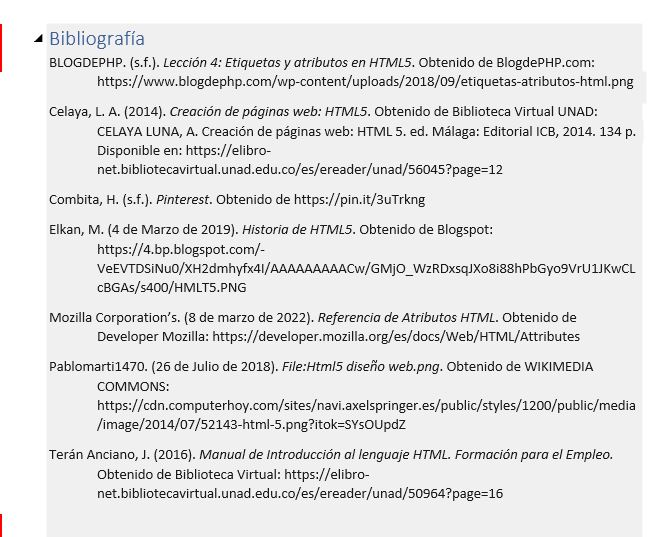
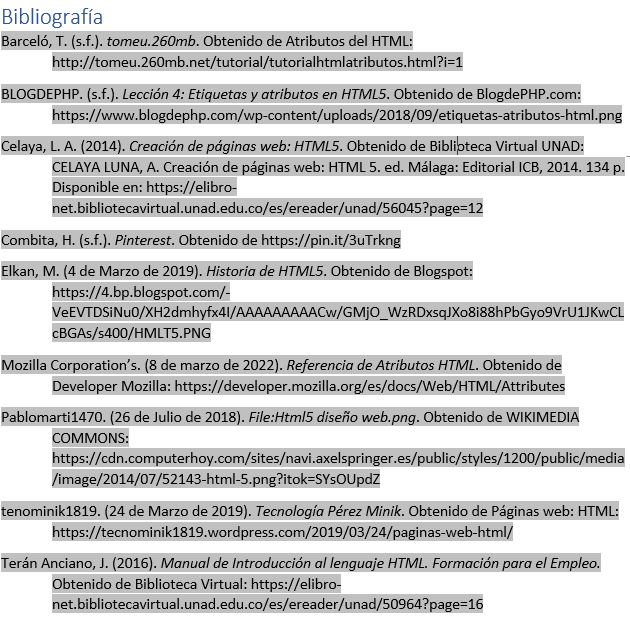
Bibliografía
Actualizar referencias

diff --git a/FASE 3/design.html b/FASE 3/design.html
@@ -70,6 +70,8 @@
             
         </article>
         <aside>
+            <iframe src="https://www.facebook.com/plugins/page.php?href=https%3A%2F%2Fwww.facebook.com%2FUniversidadUNAD%2F&tabs=timeline&width=340&height=500&small_header=false&adapt_container_width=true&hide_cover=false&show_facepile=true&appId" width="500" height="500" style="border:none;overflow:hidden" scrolling="no" frameborder="0" allowfullscreen="true" allow="autoplay; clipboard-write; encrypted-media; picture-in-picture; web-share"></iframe>
+
             <h2>Mockup de la página principal</h2>
             <img src="img/MOCKUP.png" alt="" weidth="200 " width="500" height="500">
             <p>También pueden ver el Mockup por la página "Wireframepro” online.

diff --git a/index.html b/index.html
@@ -11,12 +11,13 @@
     <h3>
         <br> Danilo Martinez Tejeiro
         <br> Ingeniería de Sistemas
-        <p>Fecha de creación: 17/03/2022</p>
+        <p>Fecha de creación: 20/02/2022</p>
         <p>Celular: 3152051808</p>
         <p>E-mail: admartinezt@unadvirtual.edu.co</p>
-    <p></p>
-    <a href="design.html">A continuación de clic AQUÍ para entrar al desarrollo de la FASE 2</a>
     </h3>
-    
+    <p><a href="/FASE2/design.html"> FASE 2</a></p>
+
+
+    <a href="/FASE 3/design.html"> FASE 3</a>
 </body>
 </html>
